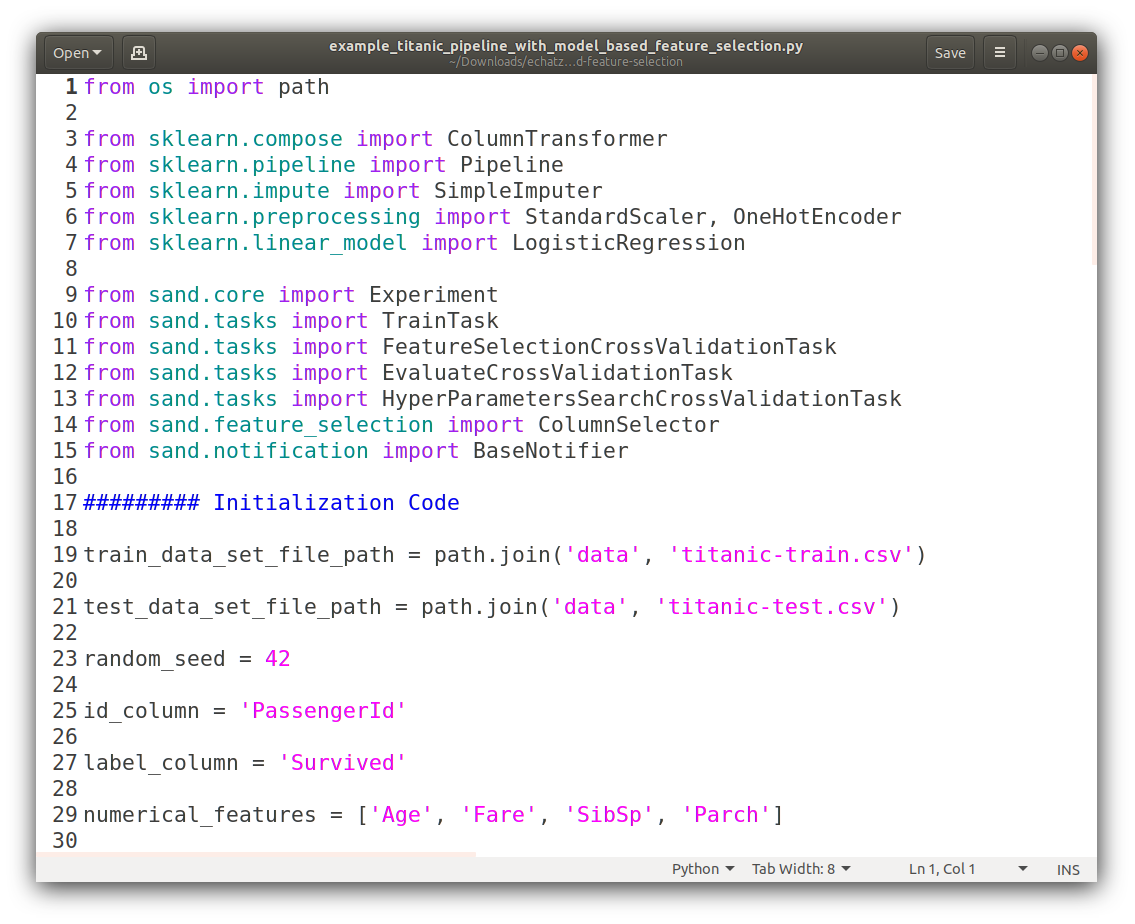
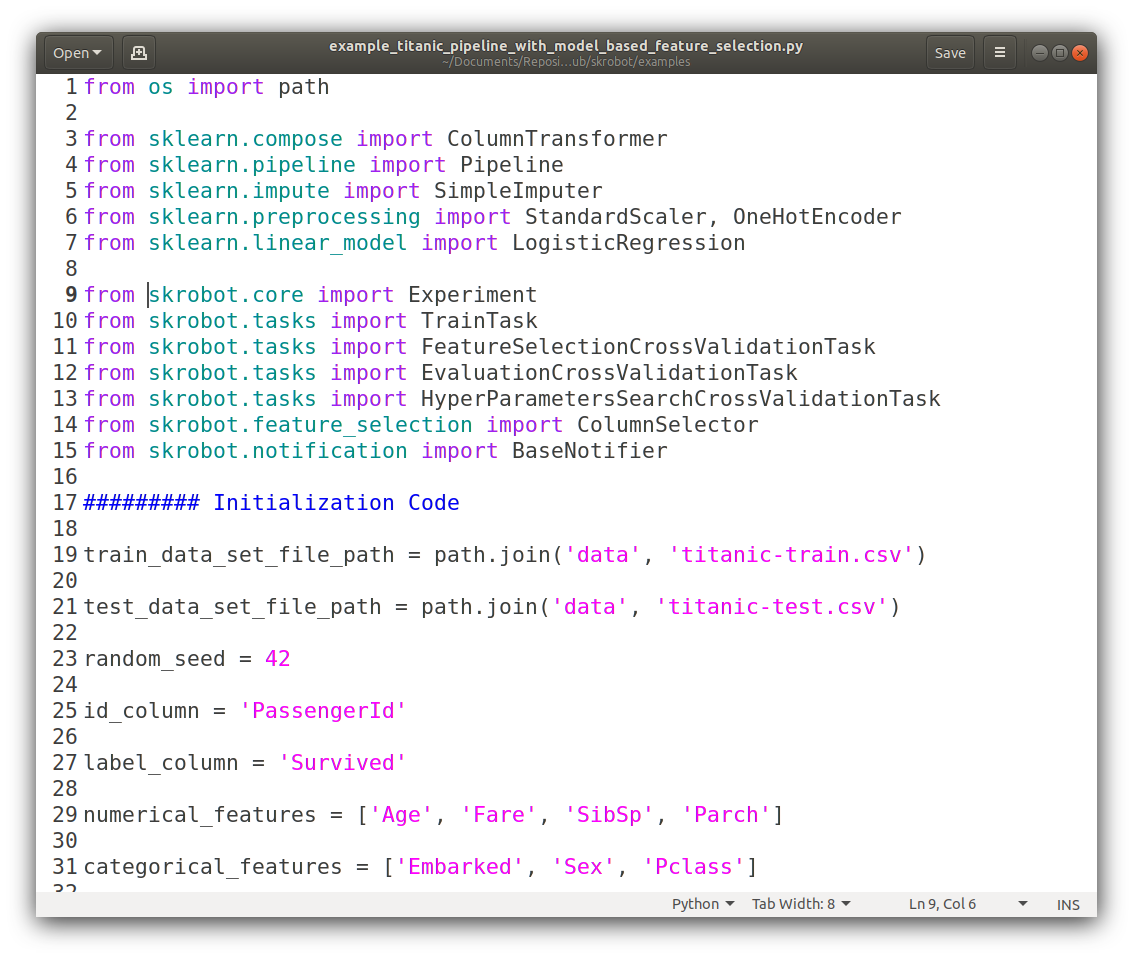
Rename sand to skrobot.

diff --git a/examples/example_titanic_pipeline_with_model_based_feature_selection.py b/examples/example_titanic_pipeline_with_model_based_feature_selection.py
@@ -6,13 +6,13 @@ from sklearn.impute import SimpleImputer
 from sklearn.preprocessing import StandardScaler, OneHotEncoder
 from sklearn.linear_model import LogisticRegression
 
-from sand.core import Experiment
-from sand.tasks import TrainTask
-from sand.tasks import FeatureSelectionCrossValidationTask
-from sand.tasks import EvaluationCrossValidationTask
-from sand.tasks import HyperParametersSearchCrossValidationTask
-from sand.feature_selection import ColumnSelector
-from sand.notification import BaseNotifier
+from skrobot.core import Experiment
+from skrobot.tasks import TrainTask
+from skrobot.tasks import FeatureSelectionCrossValidationTask
+from skrobot.tasks import EvaluationCrossValidationTask
+from skrobot.tasks import HyperParametersSearchCrossValidationTask
+from skrobot.feature_selection import ColumnSelector
+from skrobot.notification import BaseNotifier
 
 ######### Initialization Code
 
@@ -50,7 +50,7 @@ search_params = {
     "preprocessor__numerical_transfomer__imputer__strategy" : [ "mean", "median" ]
 }
 
-######### Sand Code
+######### skrobot Code
 
 # Define a Notifier (This is optional and you can implement any notifier you want, e.g. for Slack / Jira / Discord)
 class ConsoleNotifier(BaseNotifier):

diff --git a/examples/experiments-output/echatzikyriakidis-2020-07-14T14-10-24-example-titanic-pipeline-with-model-based-feature-selection/example_titanic_pipeline_with_model_based_feature_selection.py b/examples/experiments-output/echatzikyriakidis-2020-07-14T14-10-24-example-titanic-pipeline-with-model-based-feature-selection/example_titanic_pipeline_with_model_based_feature_selection.py
@@ -6,13 +6,13 @@ from sklearn.impute import SimpleImputer
 from sklearn.preprocessing import StandardScaler, OneHotEncoder
 from sklearn.linear_model import LogisticRegression
 
-from sand.core import Experiment
-from sand.tasks import TrainTask
-from sand.tasks import FeatureSelectionCrossValidationTask
-from sand.tasks import EvaluationCrossValidationTask
-from sand.tasks import HyperParametersSearchCrossValidationTask
-from sand.feature_selection import ColumnSelector
-from sand.notification import BaseNotifier
+from skrobot.core import Experiment
+from skrobot.tasks import TrainTask
+from skrobot.tasks import FeatureSelectionCrossValidationTask
+from skrobot.tasks import EvaluationCrossValidationTask
+from skrobot.tasks import HyperParametersSearchCrossValidationTask
+from skrobot.feature_selection import ColumnSelector
+from skrobot.notification import BaseNotifier
 
 ######### Initialization Code
 
@@ -50,7 +50,7 @@ search_params = {
     "preprocessor__numerical_transfomer__imputer__strategy" : [ "mean", "median" ]
 }
 
-######### Sand Code
+######### skrobot Code
 
 # Define a Notifier (This is optional and you can implement any notifier you want, e.g. for Slack / Jira / Discord)
 class ConsoleNotifier(BaseNotifier):

diff --git a/examples/example_titanic_with_task_runner.py b/examples/example_titanic_with_task_runner.py
@@ -6,12 +6,12 @@ from sklearn.impute import SimpleImputer
 from sklearn.preprocessing import StandardScaler, OneHotEncoder
 from sklearn.linear_model import LogisticRegression
 
-from sand.core import TaskRunner
-from sand.tasks import TrainTask
-from sand.tasks import FeatureSelectionCrossValidationTask
-from sand.tasks import EvaluationCrossValidationTask
-from sand.tasks import HyperParametersSearchCrossValidationTask
-from sand.feature_selection import ColumnSelector
+from skrobot.core import TaskRunner
+from skrobot.tasks import TrainTask
+from skrobot.tasks import FeatureSelectionCrossValidationTask
+from skrobot.tasks import EvaluationCrossValidationTask
+from skrobot.tasks import HyperParametersSearchCrossValidationTask
+from skrobot.feature_selection import ColumnSelector
 
 ######### Initialization Code
 
@@ -49,7 +49,7 @@ search_params = {
     "preprocessor__numerical_transfomer__imputer__strategy" : [ "mean", "median" ]
 }
 
-######### Sand Code
+######### skrobot Code
 
 # Create a Task Runner
 task_runner = TaskRunner('task-runner-output')

diff --git a/examples/example_sms_spam_ham_pipeline_with_filtering_feature_selection.py b/examples/example_sms_spam_ham_pipeline_with_filtering_feature_selection.py
@@ -5,11 +5,11 @@ from sklearn.feature_extraction.text import CountVectorizer, TfidfTransformer
 from sklearn.feature_selection import SelectPercentile, chi2
 from sklearn.linear_model import SGDClassifier
 
-from sand.core import Experiment
-from sand.tasks import TrainTask
-from sand.tasks import EvaluationCrossValidationTask
-from sand.tasks import HyperParametersSearchCrossValidationTask
-from sand.feature_selection import ColumnSelector
+from skrobot.core import Experiment
+from skrobot.tasks import TrainTask
+from skrobot.tasks import EvaluationCrossValidationTask
+from skrobot.tasks import HyperParametersSearchCrossValidationTask
+from skrobot.feature_selection import ColumnSelector
 
 ######### Initialization Code
 
@@ -40,7 +40,7 @@ search_params = {
     "feature_selection__percentile" : [ 70, 60, 50 ]
 }
 
-######### Sand Code
+######### skrobot Code
 
 # Build an Experiment
 experiment = Experiment('experiments-output', __file__).set_experimenter('echatzikyriakidis').build()

diff --git a/examples/experiments-output/echatzikyriakidis-2020-07-14T13-02-29-example-sms-spam-ham-pipeline-with-filtering-feature-selection/example_sms_spam_ham_pipeline_with_filtering_feature_selection.py b/examples/experiments-output/echatzikyriakidis-2020-07-14T13-02-29-example-sms-spam-ham-pipeline-with-filtering-feature-selection/example_sms_spam_ham_pipeline_with_filtering_feature_selection.py
@@ -5,11 +5,11 @@ from sklearn.feature_extraction.text import CountVectorizer, TfidfTransformer
 from sklearn.feature_selection import SelectPercentile, chi2
 from sklearn.linear_model import SGDClassifier
 
-from sand.core import Experiment
-from sand.tasks import TrainTask
-from sand.tasks import EvaluationCrossValidationTask
-from sand.tasks import HyperParametersSearchCrossValidationTask
-from sand.feature_selection import ColumnSelector
+from skrobot.core import Experiment
+from skrobot.tasks import TrainTask
+from skrobot.tasks import EvaluationCrossValidationTask
+from skrobot.tasks import HyperParametersSearchCrossValidationTask
+from skrobot.feature_selection import ColumnSelector
 
 ######### Initialization Code
 
@@ -40,7 +40,7 @@ search_params = {
     "feature_selection__percentile" : [ 70, 60, 50 ]
 }
 
-######### Sand Code
+######### skrobot Code
 
 # Build an Experiment
 experiment = Experiment('experiments-output', __file__).set_experimenter('echatzikyriakidis').build()

diff --git a/examples/example_money_laundering_multiple_tasks_no_pipeline.py b/examples/example_money_laundering_multiple_tasks_no_pipeline.py
@@ -2,11 +2,11 @@ from os import path
 
 from sklearn.linear_model import LogisticRegression
 
-from sand.core import Experiment
-from sand.tasks import TrainTask
-from sand.tasks import EvaluationCrossValidationTask
-from sand.tasks import FeatureSelectionCrossValidationTask
-from sand.tasks import HyperParametersSearchCrossValidationTask
+from skrobot.core import Experiment
+from skrobot.tasks import TrainTask
+from skrobot.tasks import EvaluationCrossValidationTask
+from skrobot.tasks import FeatureSelectionCrossValidationTask
+from skrobot.tasks import HyperParametersSearchCrossValidationTask
 
 ######### Initialization Code
 
@@ -22,7 +22,7 @@ lr_estimator = LogisticRegression(solver='liblinear', random_state=random_seed)
 
 search_params = { "C" : [1.e-01, 1.e+00, 1.e+01], "penalty" : [ "l1", "l2" ] }
 
-######### Sand Code
+######### Sanskrobotd Code
 
 # Build an Experiment
 experiment = Experiment('experiments-output', __file__).set_experimenter('echatzikyriakidis').build()

diff --git a/examples/experiments-output/echatzikyriakidis-2020-07-14T12-09-47-example-money-laundering-multiple-tasks-no-pipeline/example_money_laundering_multiple_tasks_no_pipeline.py b/examples/experiments-output/echatzikyriakidis-2020-07-14T12-09-47-example-money-laundering-multiple-tasks-no-pipeline/example_money_laundering_multiple_tasks_no_pipeline.py
@@ -2,11 +2,11 @@ from os import path
 
 from sklearn.linear_model import LogisticRegression
 
-from sand.core import Experiment
-from sand.tasks import TrainTask
-from sand.tasks import EvaluationCrossValidationTask
-from sand.tasks import FeatureSelectionCrossValidationTask
-from sand.tasks import HyperParametersSearchCrossValidationTask
+from skrobot.core import Experiment
+from skrobot.tasks import TrainTask
+from skrobot.tasks import EvaluationCrossValidationTask
+from skrobot.tasks import FeatureSelectionCrossValidationTask
+from skrobot.tasks import HyperParametersSearchCrossValidationTask
 
 ######### Initialization Code
 
@@ -22,7 +22,7 @@ lr_estimator = LogisticRegression(solver='liblinear', random_state=random_seed)
 
 search_params = { "C" : [1.e-01, 1.e+00, 1.e+01], "penalty" : [ "l1", "l2" ] }
 
-######### Sand Code
+######### skrobot Code
 
 # Build an Experiment
 experiment = Experiment('experiments-output', __file__).set_experimenter('echatzikyriakidis').build()

diff --git a/setup.py b/setup.py
@@ -9,15 +9,15 @@ with open(path.join(here, 'requirements.txt')) as f: requirements = [o.strip() f
 with open(path.join(here, 'README.md'), encoding='utf-8') as f: readme = f.read()
 
 setup(
-     name='sand',
+     name='skrobot',
      version='1.0.0',
      license='MIT',
      author="Medoid AI",
-     description="Sand is a Python module for designing, running and tracking Machine Learning experiments / tasks. It is built on top of scikit-learn framework.",
+     description="skrobot is a Python module for designing, running and tracking Machine Learning experiments / tasks. It is built on top of scikit-learn framework.",
      long_description=readme,
      platforms=['any'],
      long_description_content_type='text/markdown',
-     url="https://github.com/medoidai/sand",
+     url="https://github.com/medoidai/skrobot",
      python_requires='>=3.6',
      install_requires=requirements,
      packages=find_packages(),

diff --git a/examples/example_titanic_pipeline_with_filtering_feature_selection.py b/examples/example_titanic_pipeline_with_filtering_feature_selection.py
@@ -7,10 +7,10 @@ from sklearn.feature_selection import SelectKBest
 from sklearn.preprocessing import StandardScaler, OneHotEncoder
 from sklearn.linear_model import LogisticRegression
 
-from sand.core import Experiment
-from sand.tasks import TrainTask
-from sand.tasks import EvaluationCrossValidationTask
-from sand.tasks import HyperParametersSearchCrossValidationTask
+from skrobot.core import Experiment
+from skrobot.tasks import TrainTask
+from skrobot.tasks import EvaluationCrossValidationTask
+from skrobot.tasks import HyperParametersSearchCrossValidationTask
 
 ######### Initialization Code
 
@@ -53,7 +53,7 @@ search_params = {
     "selection__k" : [ 5, 6, 7 ]
 }
 
-######### Sand Code
+######### skrobot Code
 
 # Build an Experiment
 experiment = Experiment('experiments-output', __file__).set_experimenter('echatzikyriakidis').build()

diff --git a/examples/experiments-output/echatzikyriakidis-2020-07-14T14-09-59-example-titanic-pipeline-with-filtering-feature-selection/example_titanic_pipeline_with_filtering_feature_selection.py b/examples/experiments-output/echatzikyriakidis-2020-07-14T14-09-59-example-titanic-pipeline-with-filtering-feature-selection/example_titanic_pipeline_with_filtering_feature_selection.py
@@ -7,10 +7,10 @@ from sklearn.feature_selection import SelectKBest
 from sklearn.preprocessing import StandardScaler, OneHotEncoder
 from sklearn.linear_model import LogisticRegression
 
-from sand.core import Experiment
-from sand.tasks import TrainTask
-from sand.tasks import EvaluationCrossValidationTask
-from sand.tasks import HyperParametersSearchCrossValidationTask
+from skrobot.core import Experiment
+from skrobot.tasks import TrainTask
+from skrobot.tasks import EvaluationCrossValidationTask
+from skrobot.tasks import HyperParametersSearchCrossValidationTask
 
 ######### Initialization Code
 
@@ -53,7 +53,7 @@ search_params = {
     "selection__k" : [ 5, 6, 7 ]
 }
 
-######### Sand Code
+######### skrobot Code
 
 # Build an Experiment
 experiment = Experiment('experiments-output', __file__).set_experimenter('echatzikyriakidis').build()

diff --git a/examples/example_money_laundering_train_with_notifier.py b/examples/example_money_laundering_train_with_notifier.py
@@ -2,9 +2,9 @@ from os import path
 
 from sklearn.linear_model import LogisticRegression
 
-from sand.core import Experiment
-from sand.notification import BaseNotifier
-from sand.tasks import TrainTask
+from skrobot.core import Experiment
+from skrobot.notification import BaseNotifier
+from skrobot.tasks import TrainTask
 
 ######### Initialization Code
 
@@ -12,7 +12,7 @@ random_seed = 42
 
 lr_estimator = LogisticRegression(solver='liblinear', random_state=random_seed)
 
-######### Sand Code
+######### skrobot Code
 
 # Define a Notifier (This is optional and you can implement any notifier you want, e.g. for Slack / Jira / Discord)
 class ConsoleNotifier(BaseNotifier):

diff --git a/examples/experiments-output/echatzikyriakidis-2020-07-14T13-02-25-example-money-laundering-train-with-notifier/example_money_laundering_train_with_notifier.py b/examples/experiments-output/echatzikyriakidis-2020-07-14T13-02-25-example-money-laundering-train-with-notifier/example_money_laundering_train_with_notifier.py
@@ -2,9 +2,9 @@ from os import path
 
 from sklearn.linear_model import LogisticRegression
 
-from sand.core import Experiment
-from sand.notification import BaseNotifier
-from sand.tasks import TrainTask
+from skrobot.core import Experiment
+from skrobot.notification import BaseNotifier
+from skrobot.tasks import TrainTask
 
 ######### Initialization Code
 
@@ -12,7 +12,7 @@ random_seed = 42
 
 lr_estimator = LogisticRegression(solver='liblinear', random_state=random_seed)
 
-######### Sand Code
+######### skrobot Code
 
 # Define a Notifier (This is optional and you can implement any notifier you want, e.g. for Slack / Jira / Discord)
 class ConsoleNotifier(BaseNotifier):
